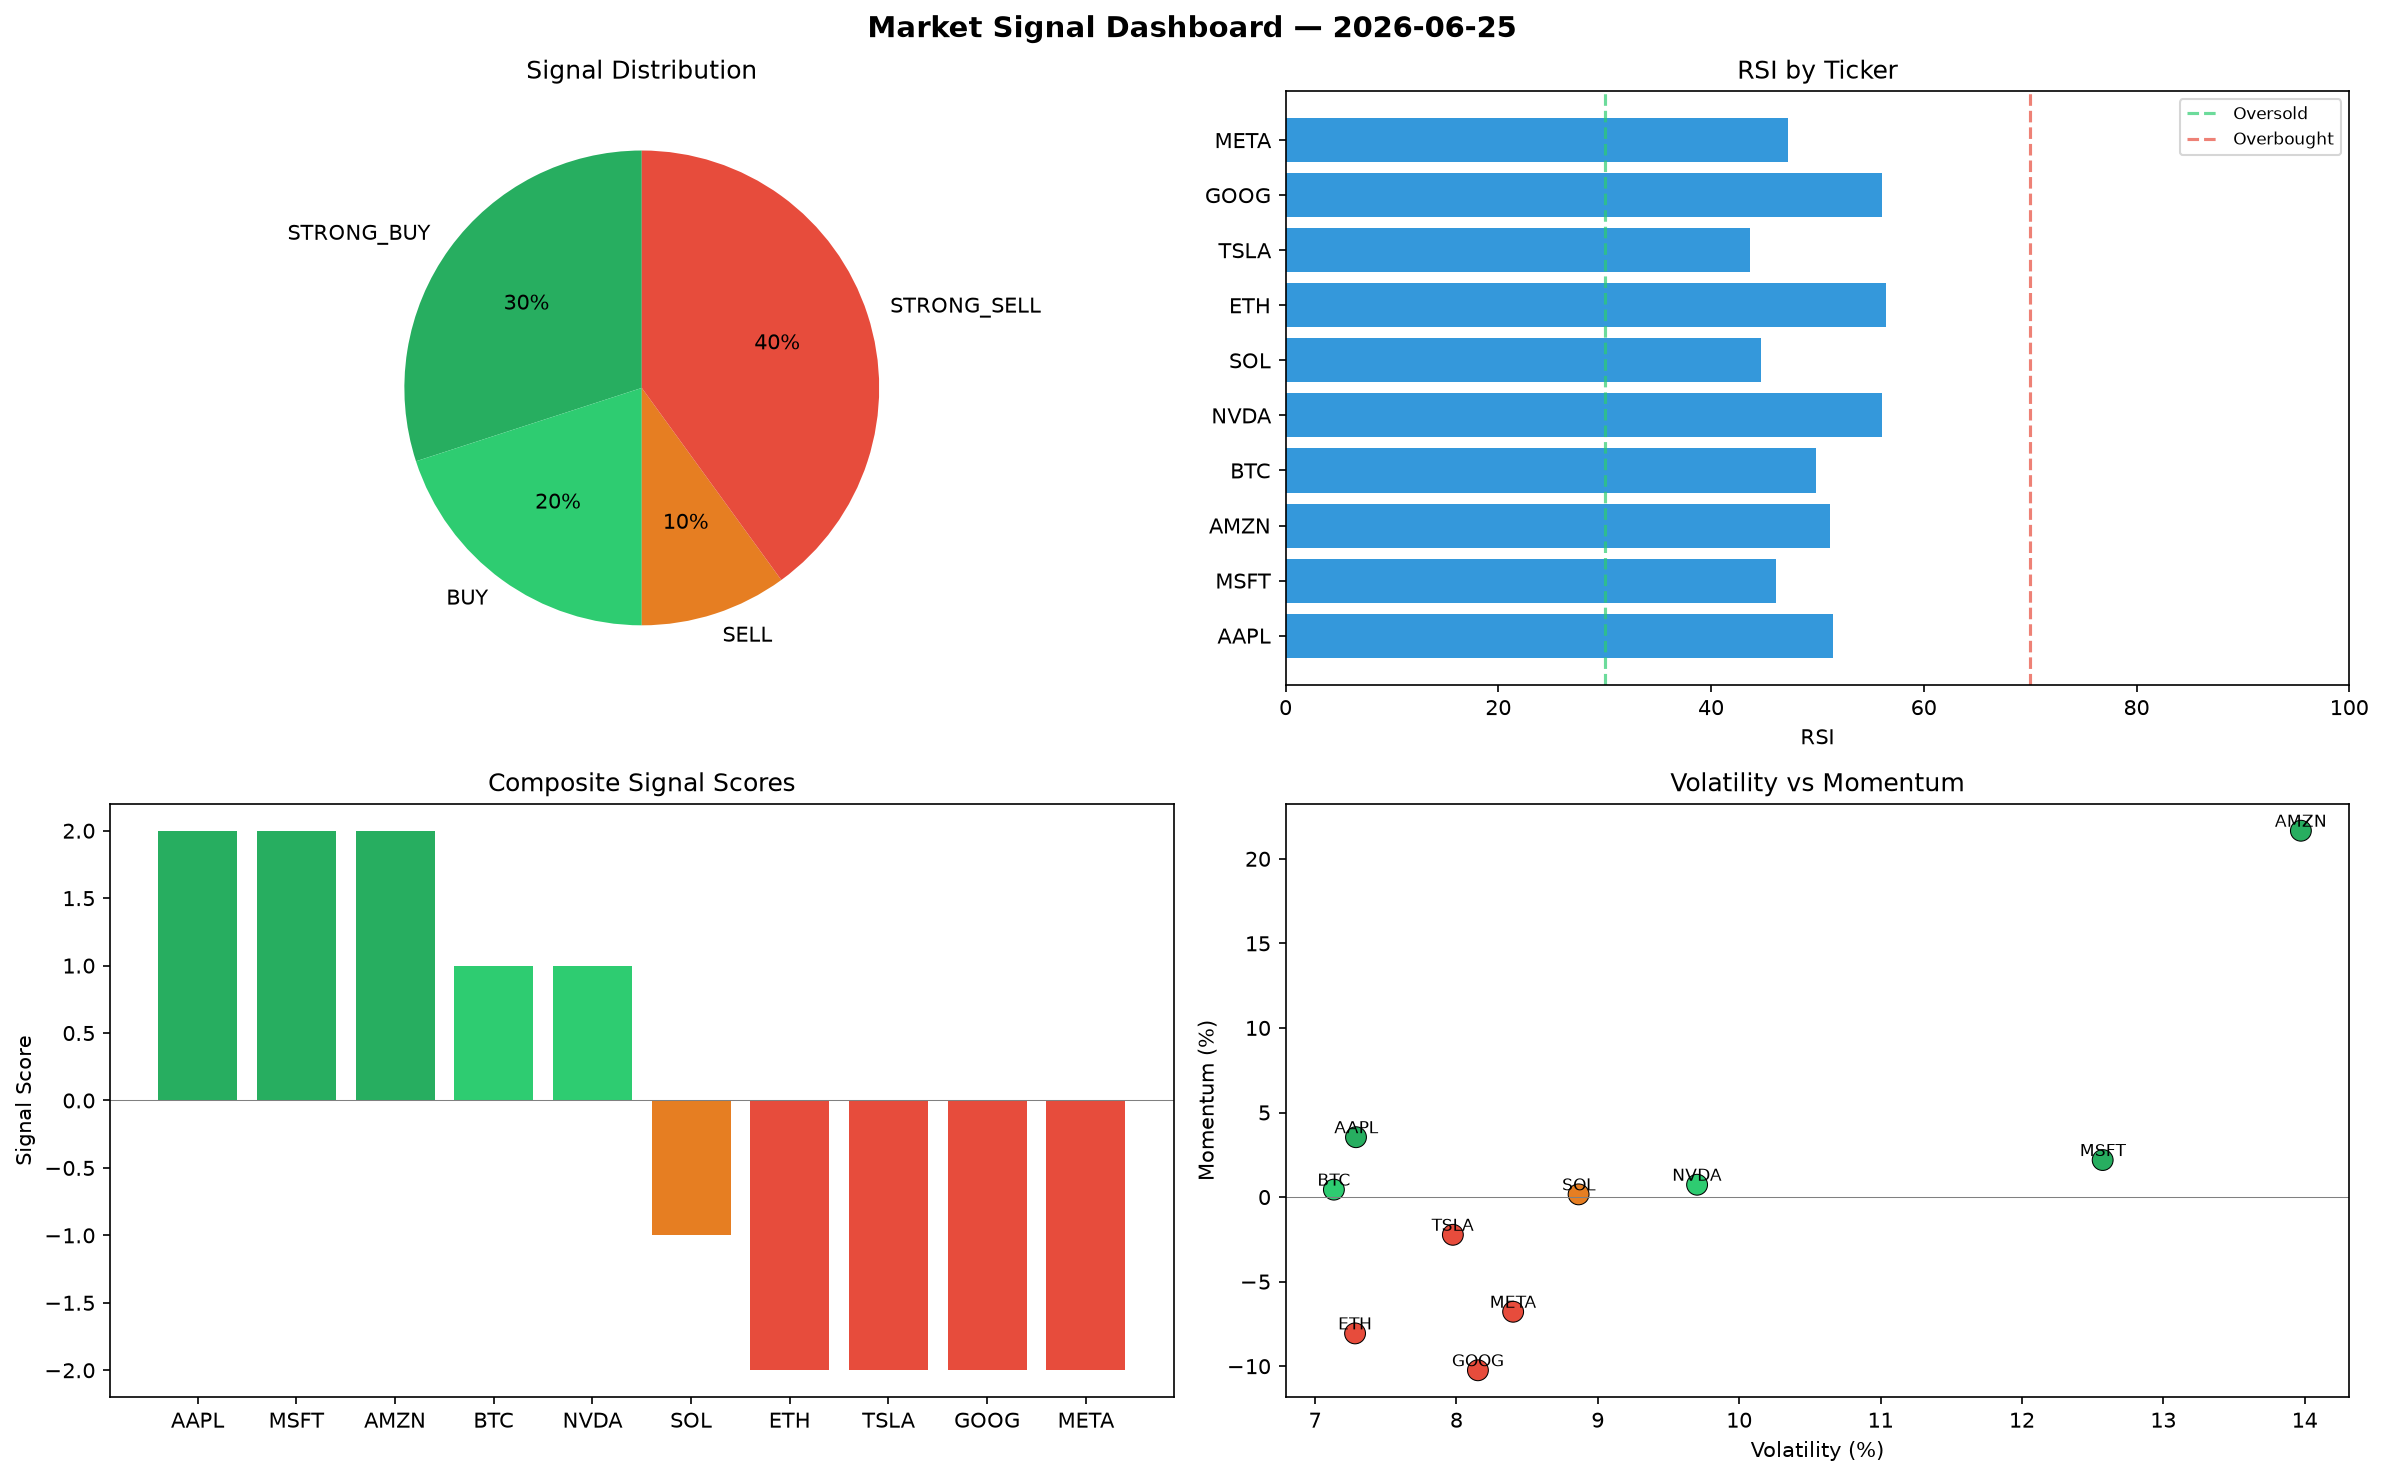
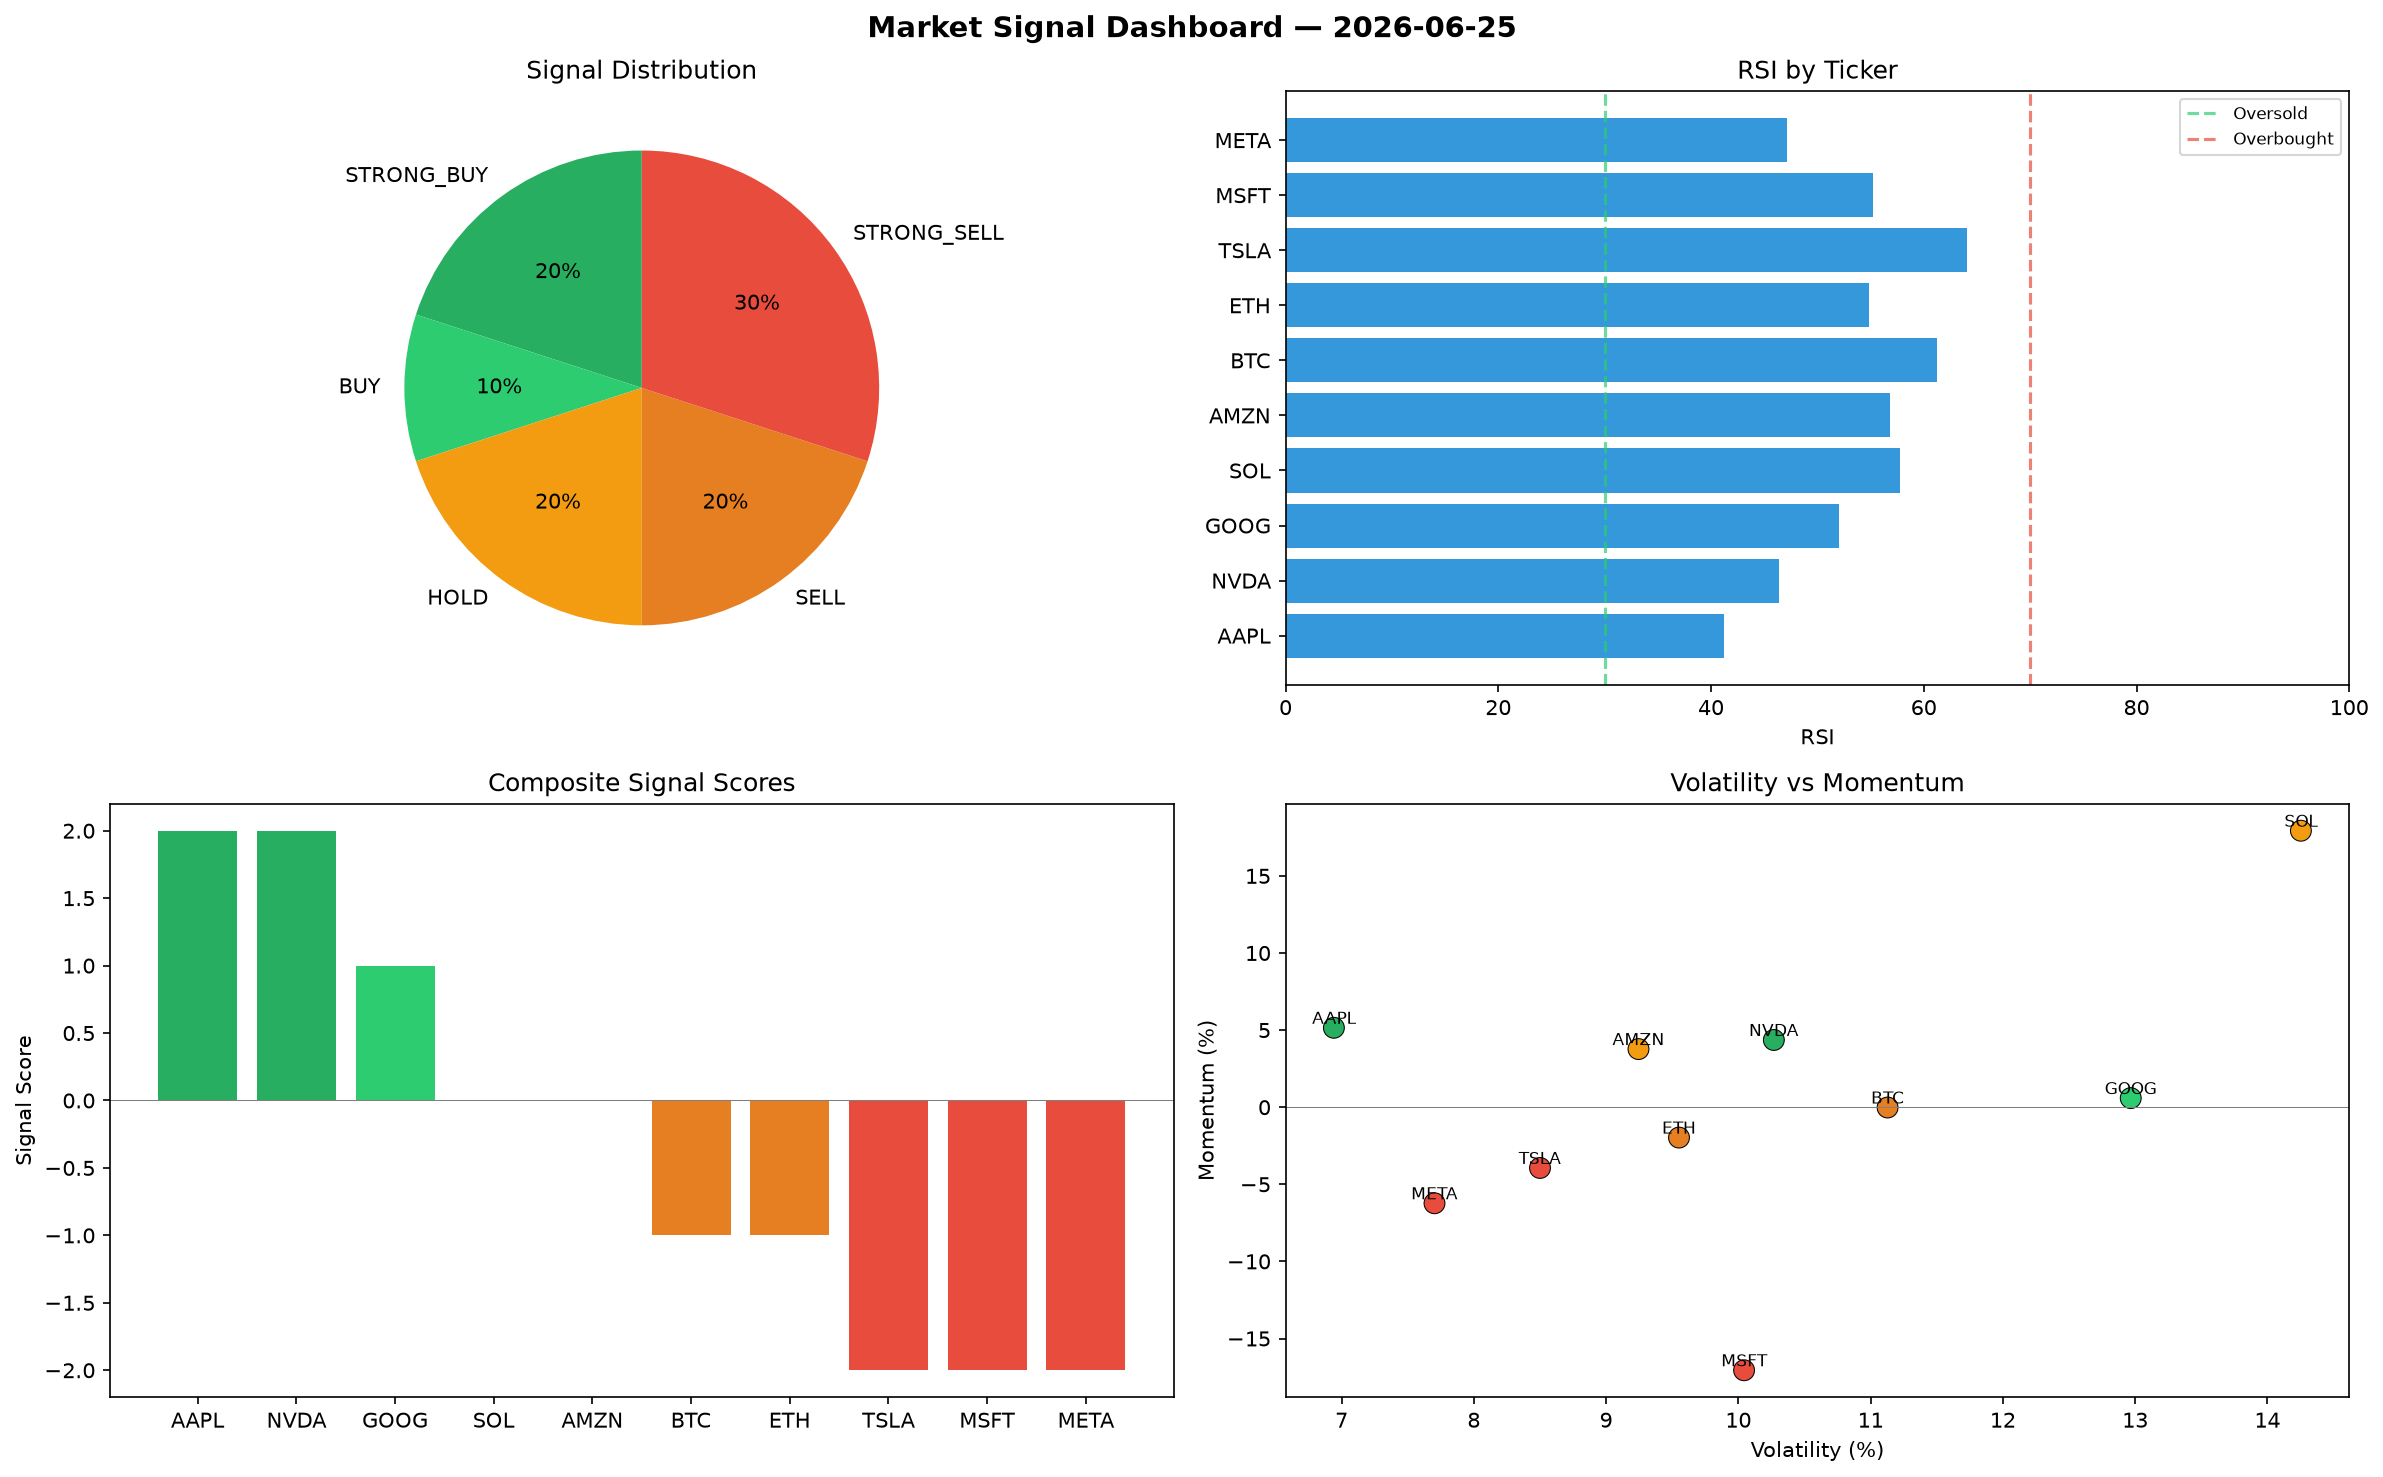
automated-bots: market signals 2026-06-25T11:12

diff --git a/logs/2026-06-25.md b/logs/2026-06-25.md
@@ -1,6 +1,6 @@
 # Market Signal Report — 2026-06-25
 
-**Run ID:** `d65077681b` | **Buy:** 5 | **Sell:** 5 | **Hold:** 0
+**Run ID:** `a0819e8f38` | **Buy:** 3 | **Sell:** 5 | **Hold:** 2
 
 ![Dashboard](2026-06-25_dashboard.png)
 
@@ -8,28 +8,28 @@
 
 | Ticker | Price | Signal | Score | RSI | Momentum | Confidence |
 |--------|-------|--------|-------|-----|----------|------------|
-| AAPL | $4414.95 | **STRONG_BUY** | 2 | 51.45 | 0.0354 | 0.5 |
-| MSFT | $3482.1 | **STRONG_BUY** | 2 | 46.11 | 0.0219 | 0.5 |
-| AMZN | $2040.65 | **STRONG_BUY** | 2 | 51.2 | 0.2166 | 0.5 |
-| BTC | $4363.4 | **BUY** | 1 | 49.91 | 0.0044 | 0.25 |
-| NVDA | $3805.48 | **BUY** | 1 | 56.09 | 0.0073 | 0.25 |
-| SOL | $2750.63 | **SELL** | -1 | 44.71 | 0.0016 | 0.25 |
-| ETH | $1668.47 | **STRONG_SELL** | -2 | 56.47 | -0.0806 | 0.5 |
-| TSLA | $1227.71 | **STRONG_SELL** | -2 | 43.66 | -0.0223 | 0.5 |
-| GOOG | $874.91 | **STRONG_SELL** | -2 | 56.12 | -0.1024 | 0.5 |
-| META | $1347.15 | **STRONG_SELL** | -2 | 47.22 | -0.0678 | 0.5 |
+| AAPL | $4886.65 | **STRONG_BUY** | 2 | 41.26 | 0.0515 | 0.5 |
+| NVDA | $4332.14 | **STRONG_BUY** | 2 | 46.35 | 0.0436 | 0.5 |
+| GOOG | $1421.7 | **BUY** | 1 | 52.05 | 0.0059 | 0.25 |
+| SOL | $4440.95 | **HOLD** | 0 | 57.78 | 0.1793 | 0.0 |
+| AMZN | $3588.66 | **HOLD** | 0 | 56.82 | 0.0377 | 0.0 |
+| BTC | $3138.79 | **SELL** | -1 | 61.24 | -0.0002 | 0.25 |
+| ETH | $2964.62 | **SELL** | -1 | 54.86 | -0.0197 | 0.25 |
+| TSLA | $2688.35 | **STRONG_SELL** | -2 | 64.04 | -0.0394 | 0.5 |
+| MSFT | $2561.28 | **STRONG_SELL** | -2 | 55.19 | -0.1706 | 0.5 |
+| META | $2460.61 | **STRONG_SELL** | -2 | 47.12 | -0.0623 | 0.5 |
 
 ## Delta vs Yesterday
 
 | Ticker | Today | Yesterday | Price Change | Signal Changed |
 |--------|-------|-----------|-------------|----------------|
-| AAPL | STRONG_BUY | HOLD | 📈 40.74% | ⚠ YES |
-| MSFT | STRONG_BUY | STRONG_BUY | 📉 -15.66% | — |
-| AMZN | STRONG_BUY | STRONG_SELL | 📉 -22.83% | ⚠ YES |
-| BTC | BUY | STRONG_SELL | 📈 132.12% | ⚠ YES |
-| NVDA | BUY | STRONG_SELL | 📉 -16.64% | ⚠ YES |
-| SOL | SELL | HOLD | 📉 -41.8% | ⚠ YES |
-| ETH | STRONG_SELL | BUY | 📈 1439.32% | ⚠ YES |
-| TSLA | STRONG_SELL | STRONG_SELL | 📉 -44.68% | — |
-| GOOG | STRONG_SELL | HOLD | 📉 -65.39% | ⚠ YES |
-| META | STRONG_SELL | BUY | 📉 -45.71% | ⚠ YES |
+| AAPL | STRONG_BUY | HOLD | 📈 55.78% | ⚠ YES |
+| NVDA | STRONG_BUY | STRONG_SELL | 📉 -5.1% | ⚠ YES |
+| GOOG | BUY | HOLD | 📉 -43.75% | ⚠ YES |
+| SOL | HOLD | HOLD | 📉 -6.04% | — |
+| AMZN | HOLD | STRONG_SELL | 📈 35.72% | ⚠ YES |
+| BTC | SELL | STRONG_SELL | 📈 66.98% | ⚠ YES |
+| ETH | SELL | BUY | 📈 2635.14% | ⚠ YES |
+| TSLA | STRONG_SELL | STRONG_SELL | 📈 21.13% | — |
+| MSFT | STRONG_SELL | STRONG_BUY | 📉 -37.96% | ⚠ YES |
+| META | STRONG_SELL | BUY | 📉 -0.83% | ⚠ YES |
